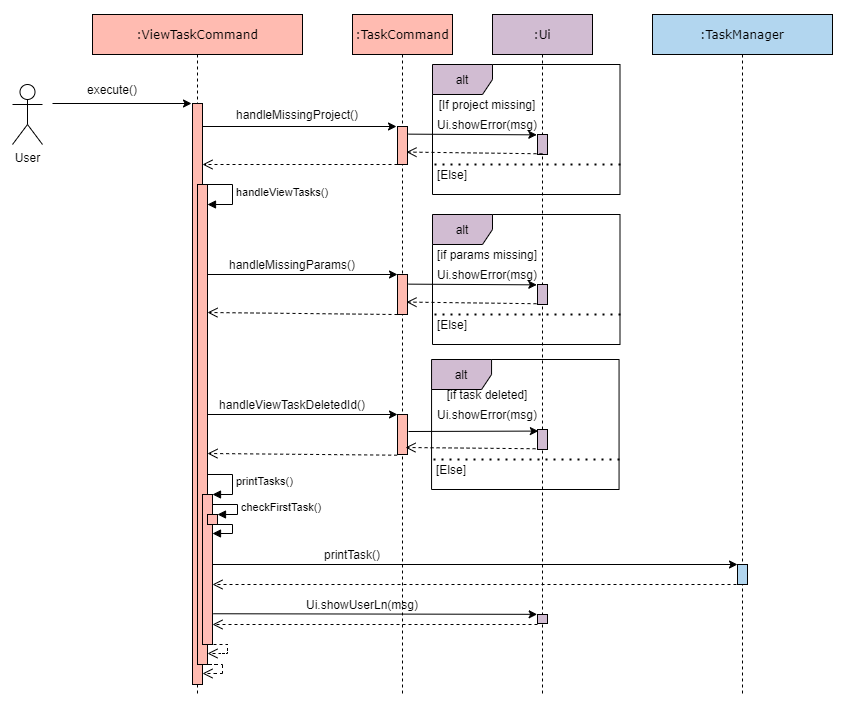
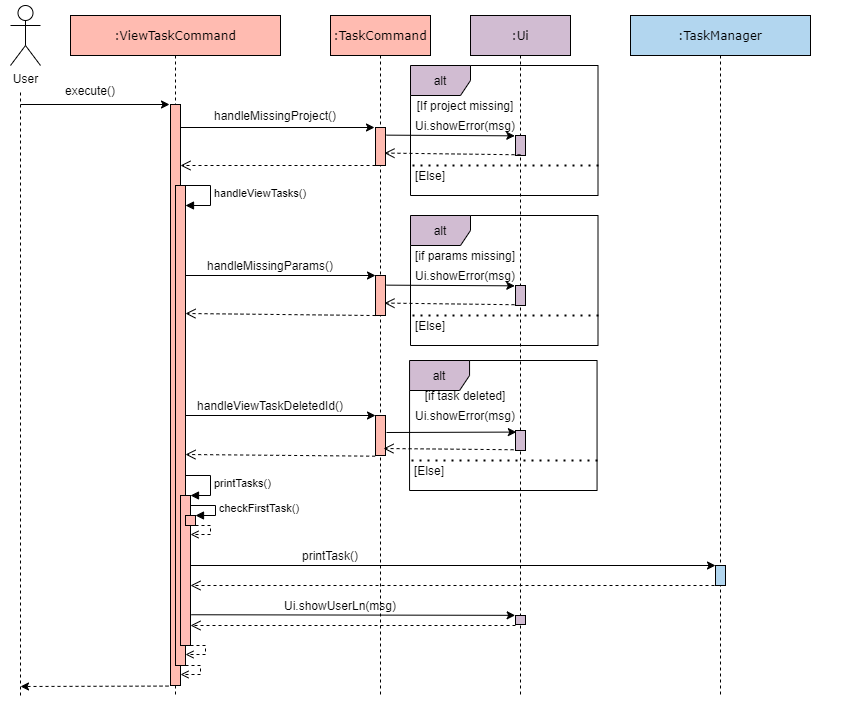
Update Sequence Diagram

diff --git a/docs/team/e0426051.md b/docs/team/e0426051.md
@@ -20,7 +20,7 @@ This section shows a summary of my coding, documentation, and other helpful cont
 * Documentation: 
     * Added and refined task and program exit components to the user guide. (Pull requests [#77](https://github.com/AY2021S1-CS2113T-F11-4/tp/pull/77), [#137](https://github.com/AY2021S1-CS2113T-F11-4/tp/pull/137/files), [#179](https://github.com/AY2021S1-CS2113T-F11-4/tp/pull/179), [#180](https://github.com/AY2021S1-CS2113T-F11-4/tp/pull/180/files))
     * Added and refined UI and task components to the developer guide. (Pull requests [#126(Tasks)](https://github.com/AY2021S1-CS2113T-F11-4/tp/pull/126/files), [#229(UI)](https://github.com/AY2021S1-CS2113T-F11-4/tp/pull/229), [#244(Tasks)](https://github.com/AY2021S1-CS2113T-F11-4/tp/pull/244))
-    * Added and refined UI and task diagrams to the developer guide. (Pull requests [#216](https://github.com/AY2021S1-CS2113T-F11-4/tp/pull/216))
+    * Added and refined UI and task diagrams to the developer guide. (Pull requests [#216](https://github.com/AY2021S1-CS2113T-F11-4/tp/pull/216), [#250](https://github.com/AY2021S1-CS2113T-F11-4/tp/pull/250))
 * Contributions to team-based tasks:
     * Narrated for video and typed command in app while being recorded in Zoom for V1.0 
     * Helped to fix several general bugs in the code. (Pull request [#110](https://github.com/AY2021S1-CS2113T-F11-4/tp/pull/110/files), [#179](https://github.com/AY2021S1-CS2113T-F11-4/tp/pull/179))
